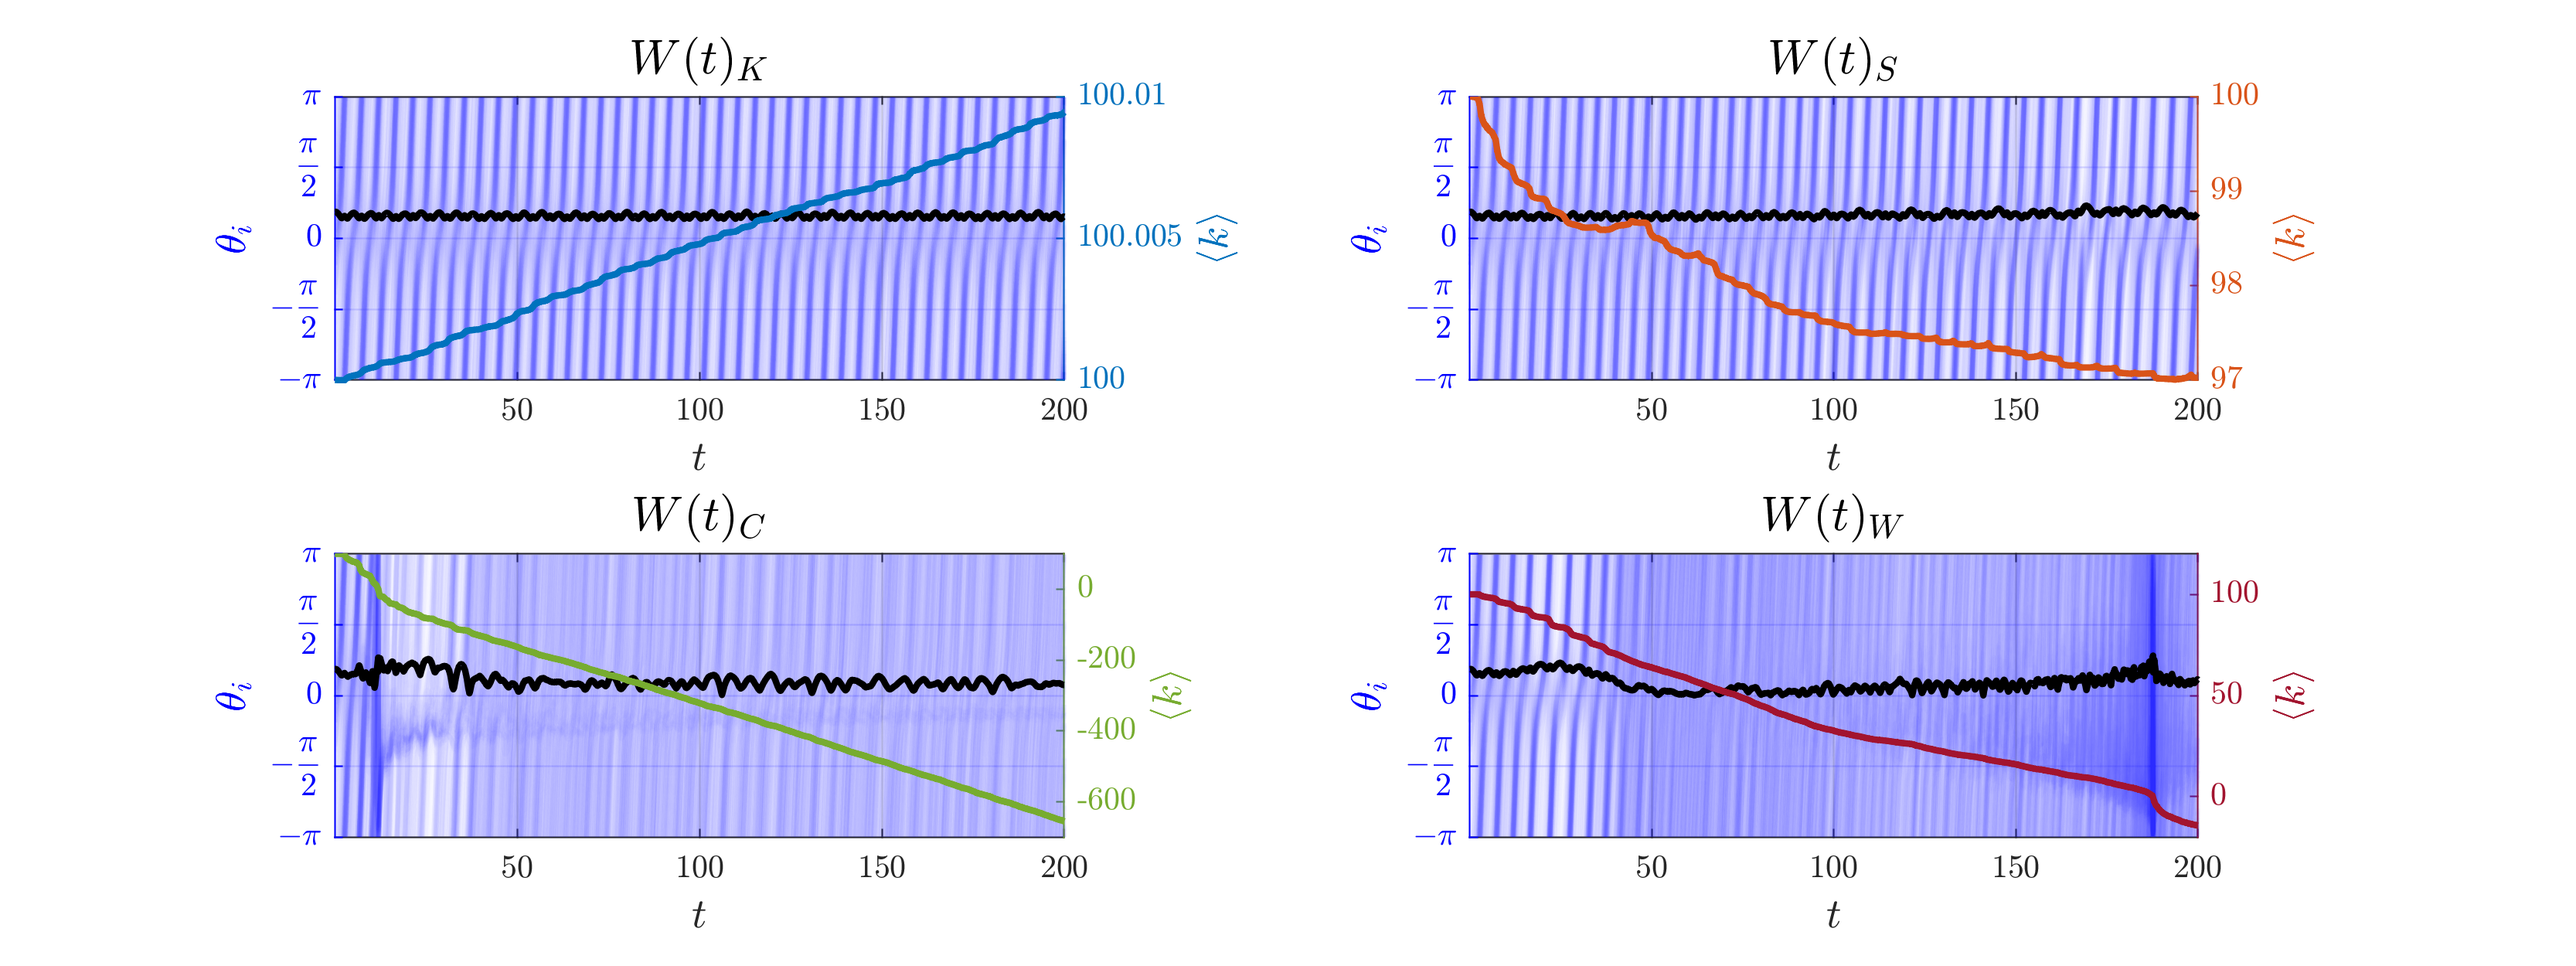
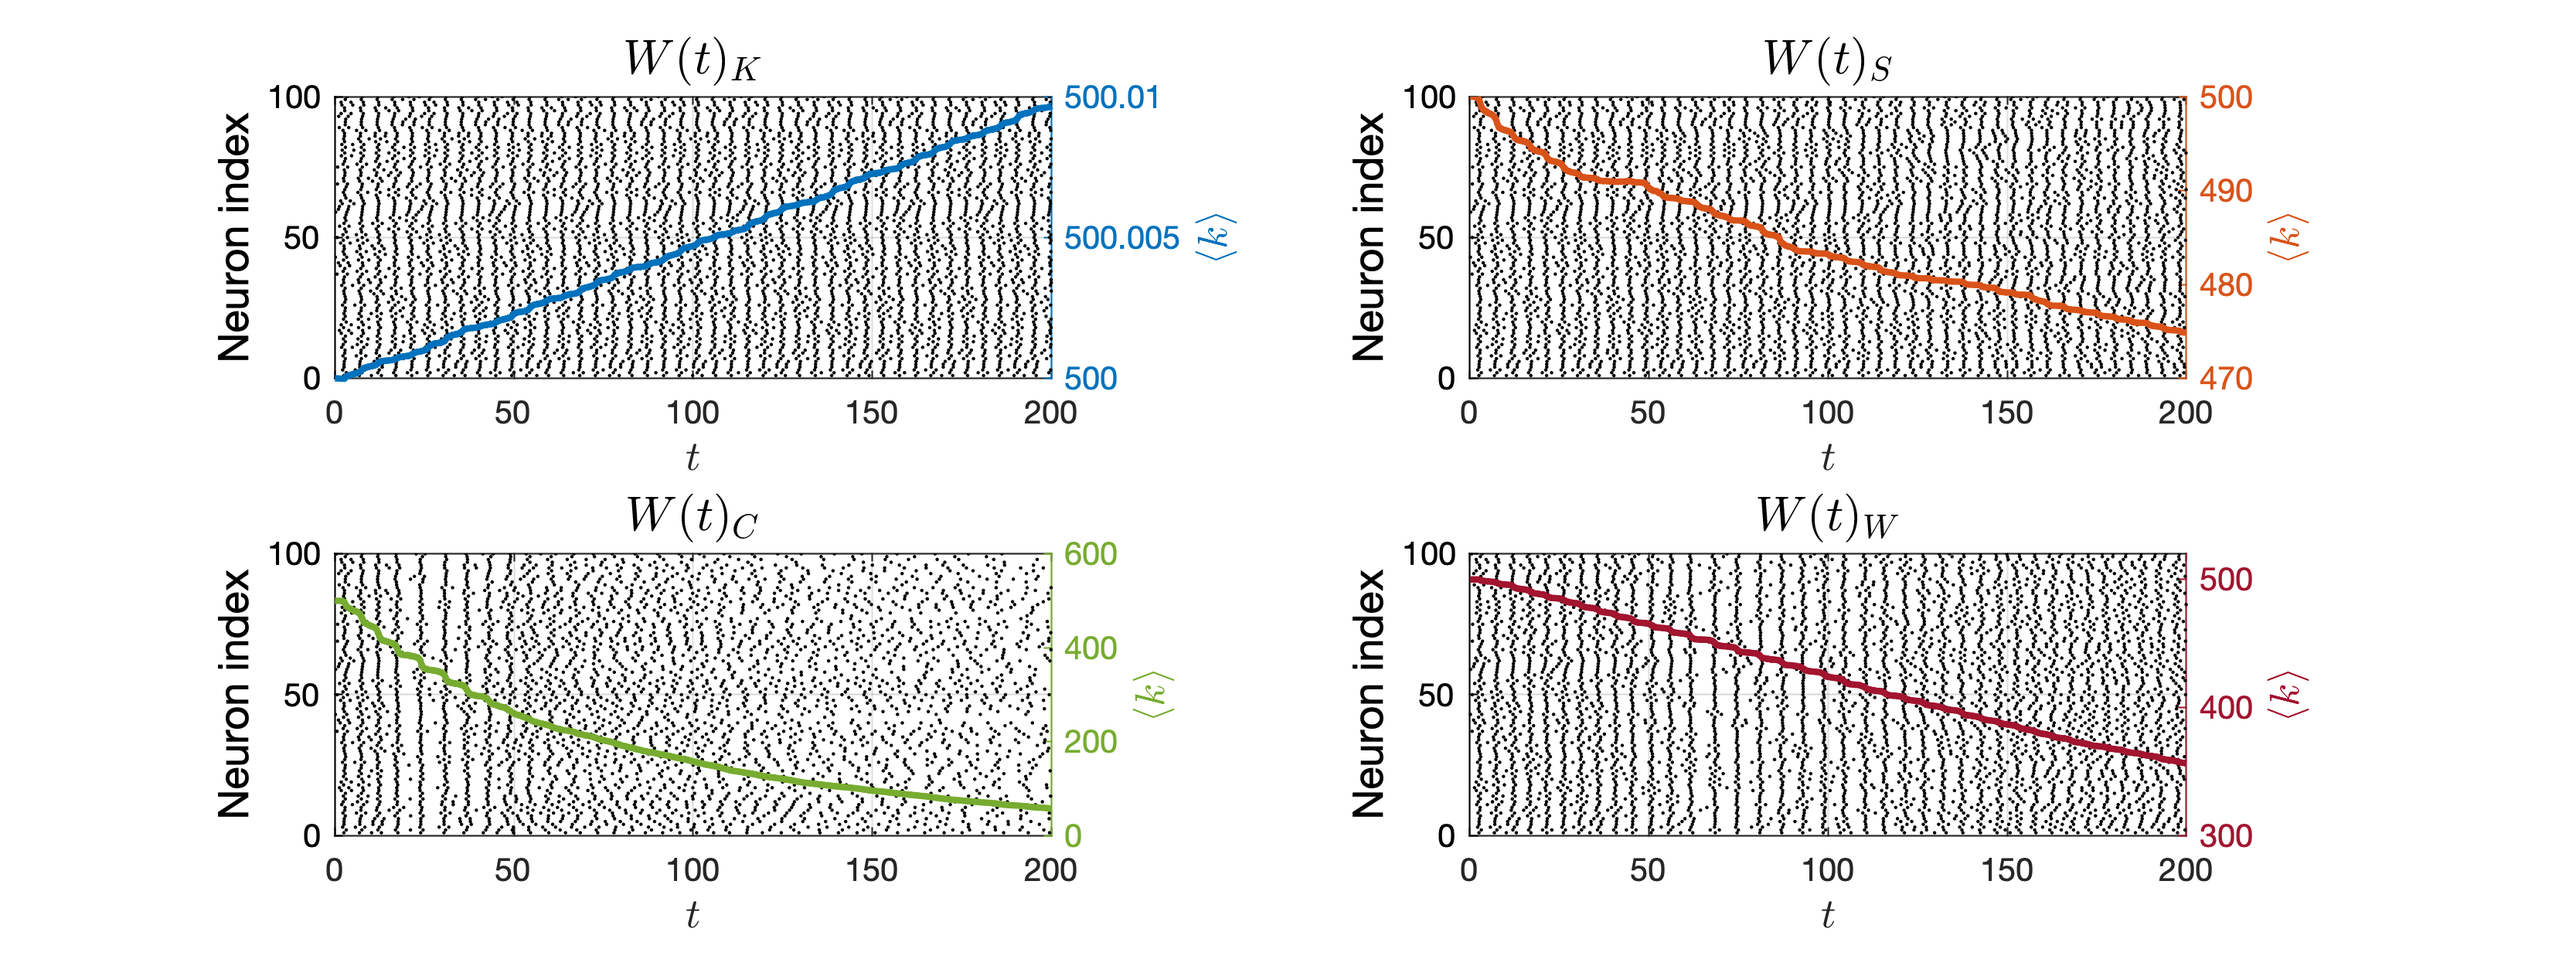
added a maximum and minumum K and more

diff --git a/Full scale simulations/Exploring_synaptic_plasticity.m b/Full scale simulations/Exploring_synaptic_plasticity.m
@@ -36,9 +36,11 @@ pars.e = 0; %randcauchy(seed, pars.eta0, pars.delta, pars.N);
 
 %% Exploration:
 STDP = struct('window', @Song2017Window, 'Kupdate', @(K, W) K + K.*W); 
-plastopts = struct('SP', STDP);
+plastopts = struct('SP', STDP, 'KMAX', 10);
 
-[t, thetas_full, K, Kmeans] = DOPRI_simulatenetwork_adaptive(tnow,tend,IC,h,pars,plastopts);
+K0 = initarray(10*ones(pars.N)); % For the learning windows
+
+[t, thetas_full, K, Kmeans] = DOPRI_simulatenetwork_adaptive(tnow,tend,IC,h,pars,K0,plastopts);
 drawthetas = spikesNaN(thetas_full);
 z = orderparameter(thetas_full);
 
@@ -61,7 +63,7 @@ xlabel('$t$','Interpreter','latex', 'FontSize', labelfont)
  %% Results without synaptic scaling:
 f_noSS = figure('Renderer', 'painters', 'Position', [50, 50, 800, 300]); hold on; box on;
 
-K0 = initarray(10*ones(N,N)); % For the learning windows
+K0 = initarray(5*ones(pars.N)); % For the learning windows
 
 winnames = ["Kempter1999Window", "Song2017Window", "ChrolCannon2012Window", "Waddington2014Window"];
 colors = ["#0072BD", "#D95319", "#77AC30", "#A2142F"];
@@ -76,7 +78,7 @@ for i = 1:4
         STDP.Kupdate = @(K, W) K + K.*W;
     end
     
-    plastopts = struct('SP', STDP);
+    plastopts = struct('SP', STDP, 'KMAX', 10);
     [t, thetas_full, ~, Kmeans] = DOPRI_simulatenetwork_adaptive(tnow,tend,IC,h,pars,K0,plastopts);
     drawthetas = spikesNaN(thetas_full);
     z = orderparameter(thetas_full);
@@ -85,22 +87,24 @@ for i = 1:4
     xlim([tnow, tend]); 
     
     yyaxis left
-    plot(t, drawthetas, '-', 'LineWidth', 1.5, 'Color', [0, 0, 1, 0.01], 'HandleVisibility', 'off')
-    plot(t, abs(z), '-k', 'LineWidth', 2)
-    ylabel('$\theta_i$','Interpreter','latex', 'FontSize', labelfont)
-    ylim([-pi, pi]); 
-    set(gca,'YTick',-pi:pi/2:pi) 
-    set(gca,'YTickLabel',{'$$-\pi$$','$$-\frac{\pi}{2}$$','$$0$$','$$\frac{\pi}{2}$$','$$\pi$$'}, 'TickLabelInterpreter', 'latex')
+    rasterplot(t, drawthetas, labelfont);
+
+%     plot(t, drawthetas, '-', 'LineWidth', 1.5, 'Color', [0, 0, 1, 0.01], 'HandleVisibility', 'off')
+%     plot(t, abs(z), '-k', 'LineWidth', 2)
+%     ylabel('$\theta_i$','Interpreter','latex', 'FontSize', labelfont)
+%     ylim([-pi, pi]); 
+%     set(gca,'YTick',-pi:pi/2:pi) 
+%     set(gca,'YTickLabel',{'$$-\pi$$','$$-\frac{\pi}{2}$$','$$0$$','$$\frac{\pi}{2}$$','$$\pi$$'}, 'TickLabelInterpreter', 'latex')
 
     yyaxis right
-    plot(t, Kmeans, 'LineWidth', 2, 'Color', colors(i))
+    plot(t, Kmeans(1,:), 'LineWidth', 2, 'Color', colors(i))
     ylabel('$\langle k \rangle$','Interpreter','latex', 'FontSize', labelfont)
     
     name = char(name);
     title(sprintf('$$W(t)_%s$$', name(1)), 'Interpreter', 'latex', 'FontSize', titlefont)
     %legend(sprintf('$$W(t)_%s$$', name(1)), 'Location', 'southwest', 'Interpreter', 'latex', 'FontSize', labelfont)
 
-    ax = gca; ax.YAxis(1).Color = [0, 0, 1]; ax.YAxis(2).Color = colors(i);
+    ax = gca; ax.YAxis(1).Color = [0, 0, 0 ]; ax.YAxis(2).Color = colors(i);
     xlabel('$t$','Interpreter','latex', 'FontSize', labelfont)
 end
 

diff --git a/Full scale simulations/STDPandIP.m b/Full scale simulations/STDPandIP.m
@@ -26,11 +26,11 @@ pars.N = 100;
 pars.a_n = 0.666666666666666666667;
 seed = 2; rng(seed);
 IC = randn(pars.N,1);
-pars.e = 0; %randcauchy(seed, pars.eta0, pars.delta, pars.N);
+pars.e = 1; %randcauchy(seed, pars.eta0, pars.delta, pars.N);
 
 %% The simulation
-STDP = struct('window', @Kempter1999Window, 'Kupdate', @(K, W) K + W, 'w_i', 1.0e-5, 'w_o', - 1.0475*1.0e-5);
-% STDP = struct('window', @Song2017Window, 'Kupdate', @(K, W) K + K.*W); 
+% STDP = struct('window', @Kempter1999Window, 'Kupdate', @(K, W) K + W, 'w_i', 1.0e-5, 'w_o', - 1.0475*1.0e-5);
+STDP = struct('window', @Song2017Window, 'Kupdate', @(K, W) K + K.*W); 
 plastopts = struct('SP', STDP, 'KMAX', 10);
 K0 = initarray(zeros(pars.N) + 0.01*randn(pars.N)); % For the STDPversusIP script
 
@@ -38,16 +38,15 @@ K0 = initarray(zeros(pars.N) + 0.01*randn(pars.N)); % For the STDPversusIP scrip
 drawthetas = spikesNaN(thetas_full);
 z = orderparameter(thetas_full);
 
+
 %% Plotting the results
-f_reproduce = figure('Renderer', 'painters', 'Position', [0, 2000, 300, 1500]); hold on; box on;
+f_reproduce = figure('Renderer', 'painters', 'Position', [0, 2000, 300, 1400]); hold on; box on;
 
 subplot(5,1,1); hold on; axis square; box on;
 title('Simulation results', 'FontSize', titlefont)
 yyaxis left
-% plot(t, drawthetas, '-', 'LineWidth', 0.1, 'Color', [0, 0, 1, 1/(5*pars.N)], 'HandleVisibility', 'off')
-plot(t, abs(z), '-k', 'LineWidth', 2)
-ylabel('$\theta_i$','Interpreter','latex', 'FontSize', labelfont)
-ylim([-pi, pi]);
+rasterplot(t, drawthetas, labelfont);
+
 yyaxis right
 plot(t, Kmeans, 'LineWidth', 2, 'Color', "#0072BD")
 ax = gca; ax.YAxis(1).Color = [0, 0, 1]; ax.YAxis(2).Color = "#0072BD";

diff --git a/Full scale simulations/rasterplot.m b/Full scale simulations/rasterplot.m
@@ -1,0 +1,10 @@
+function fighandle = rasterplot(t, drawthetas, labelfont)
+    [N, tpts] = size(drawthetas);
+    
+    [spikesr, spikesc] = ind2sub([N, tpts], find(isnan(drawthetas)));
+    fighandle = scatter(t(spikesc), spikesr, 10, '.k');
+    
+    ylim([0, N]); xlim([0, t(end)]);
+    ylabel('Neuron index', 'FontSize', labelfont)
+end
+
